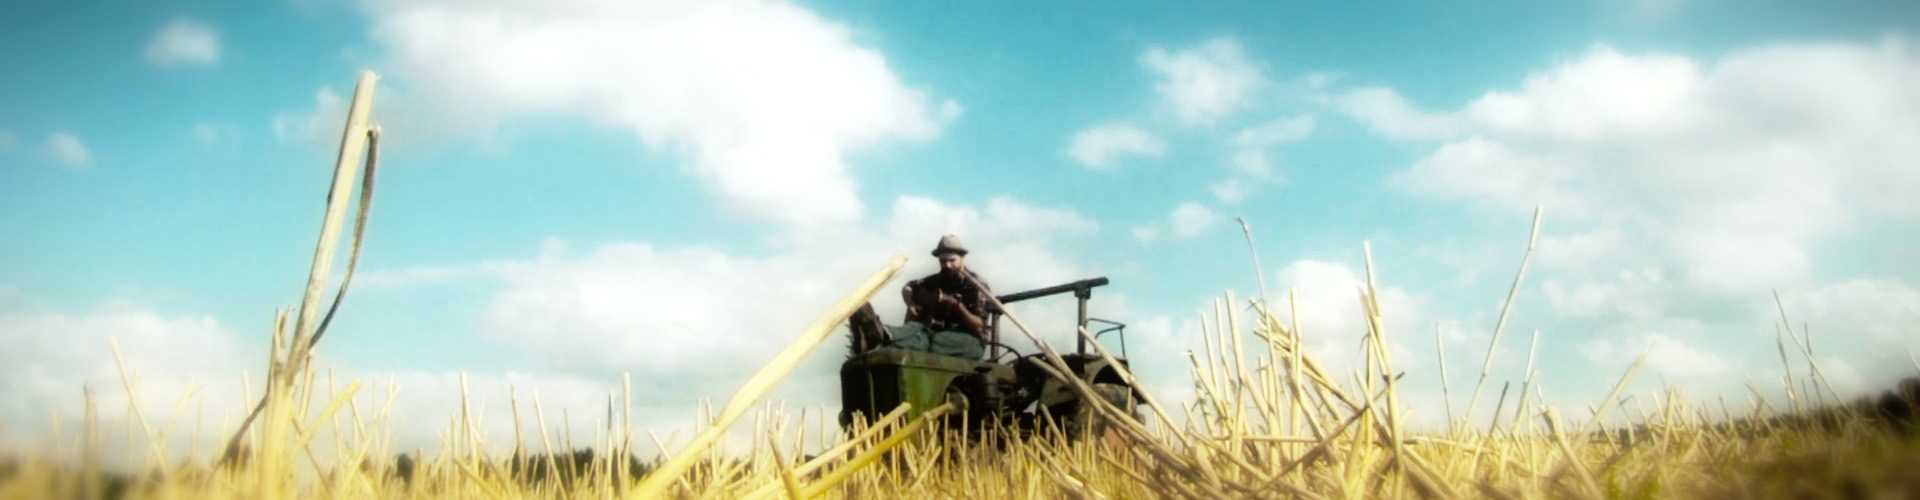
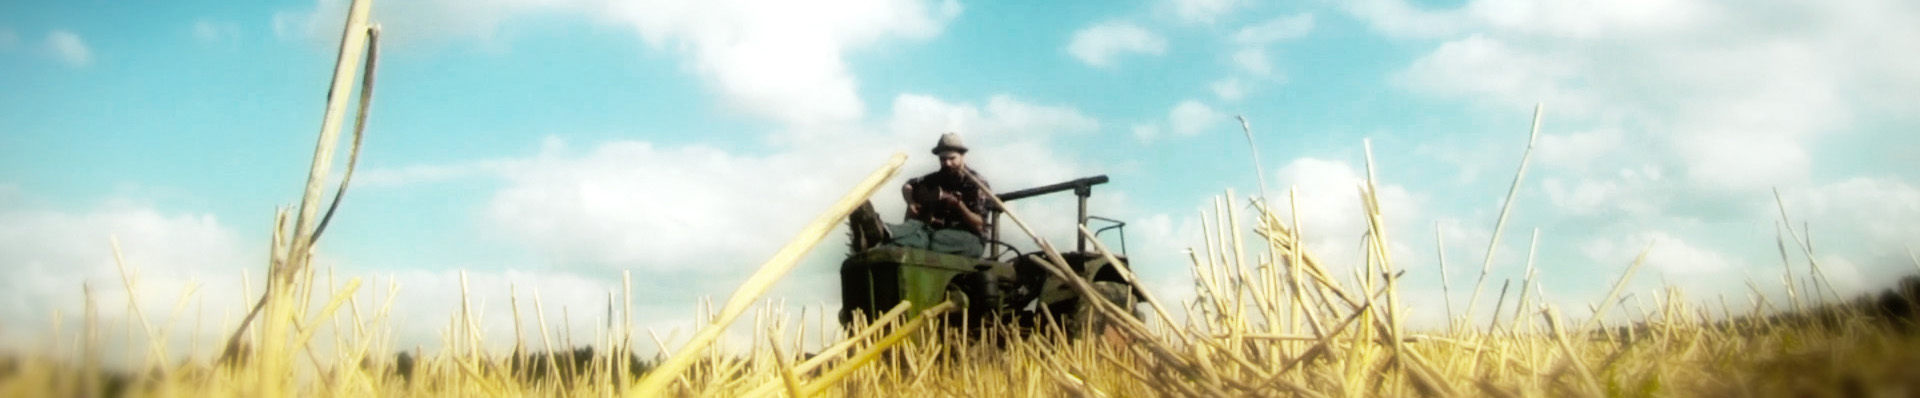
Final stylings on antonsreise project page

diff --git a/socialee/templates/jumpage.html b/socialee/templates/jumpage.html
@@ -68,130 +68,59 @@
       </div>
     </div>
 
-    <div class="w-section w-clearfix _wf-header-img-wrapper" id="first-section" data-ix="fade-in-from-right"><img class="aufklappen" src="{% static "webflow/images/arrowdown.png" %}" data-ix="nav-open">
-      <div class="w-container _wf-titlediv">
-        <div class="w-row _wf-titlerow">
-          <div class="w-col w-col-6 w-col-stack _wf-projecttitle">
-            <h1 data-ix="fade-down">Antons Reise</h1>
-            <p class="_wf-untertitel" data-ix="fade-in-slowly">Ein Roadtrip von Westfalen nach Berlin</p>
-          </div>
-          <div class="w-col w-col-6 w-col-stack">
-            <ul class="w-list-unstyled w-hidden-tiny _wf-header-list">
-              <li class="_wf-label-header" data-ix="fade-in-from-right">Datum:</li>
-              <li class="_wf-label-header _wf-var" data-ix="fade-in-slowly">{% now "SHORT_DATE_FORMAT" %}</li>
-              <li class="_wf-label-header" data-ix="fade-in-from-right">letztes großes Erlebnis:</li>
-              <li class="_wf-label-header _wf-var" data-ix="fade-in-slowly">Bauer Jakob getroffen</li>
-              <li class="_wf-label-header" data-ix="fade-in-from-right">Wetter heute:</li>
-              <li class="_wf-label-header _wf-var" data-ix="fade-in-slowly">Regen und Sturm, ächz.</li>
-              <li class="_wf-label-header" data-ix="fade-in-from-right">gefahrene Kilometer:</li>
-              <li class="_wf-label-header _wf-var" data-ix="fade-in-slowly">124 km</li>
-              <li class="_wf-label-header" data-ix="fade-in-from-right">Wo sind wir gerade:</li>
-              <li class="_wf-label-header _wf-var" data-ix="fade-in-slowly">Ratsiek im Weserbergland</li>
-              <li class="_wf-label-header" data-ix="fade-in-from-right">Dieselverbrauch:</li>
-              <li class="_wf-label-header _wf-var" data-ix="fade-in-slowly">68 Liter</li>
-            </ul>
+    <div class="w-section w-clearfix _wf-header-img-wrapper" data-ix="fade-in-from-right"><img class="aufklappen" src="{% static "webflow/images/arrowdown.png" %}" data-ix="nav-open">
+        <div class="w-nav _wf-nav-bar" data-collapse="small" data-animation="default" data-duration="400" data-contain="1" data-ix="fade-in-slowly">
+          <div class="w-hidden-small w-hidden-tiny _wf-nav-bar-container w-container">
+            <nav class="w-nav-menu _wf-nav-menu socialee-nav-menu" role="navigation"><a class="w-nav-link _wf-nav-menu-link" href="#first-section">Geschichten</a><a class="w-nav-link _wf-nav-menu-link" href="#second-section">Video</a><a class="w-nav-link _wf-nav-menu-link" href="#third-section">Reiseroute</a><!--<a class="w-nav-link _wf-nav-menu-link" href="#">Musik</a>--><a class="w-nav-link _wf-nav-menu-link" href="#fourth-section">Kontakt</a>
+            </nav><hr/>
+            <div class="w-nav-button">
+              <div class="w-icon-nav-menu"></div>
+            </div>
           </div>
         </div>
-      </div>
     </div>
 
-    <div class="w-nav _wf-nav-bar" data-collapse="small" data-animation="default" data-duration="400" data-contain="1" data-ix="fade-in-slowly">
-      <div class="w-hidden-small w-hidden-tiny _wf-nav-bar-container w-container">
-        <nav class="w-nav-menu _wf-nav-menu socialee-nav-menu left" role="navigation"><a class="w-nav-link _wf-nav-menu-link" href="#first-section">Übersicht</a><a class="w-nav-link _wf-nav-menu-link" href="#second-section">Karte</a><a class="w-nav-link _wf-nav-menu-link" href="#third-section">Logbuch</a><a class="w-nav-link _wf-nav-menu-link" href="#fourth-section">Video</a><a class="w-nav-link _wf-nav-menu-link" href="#">Musik</a><a class="w-nav-link _wf-nav-menu-link" href="#">Geschichten</a><a class="w-nav-link _wf-nav-menu-link" href="#">Bilder</a><a class="w-nav-link _wf-nav-menu-link" href="#">Kontakt</a>
-        </nav>
-        <div class="w-nav-button">
-          <div class="w-icon-nav-menu"></div>
-        </div>
-      </div>
-    </div>
-
-    <!--<div class="container-map">
-        <div id="map-canvas" class="map"></div>
-    </div>-->
-    <!--<iframe src="https://www.google.com/maps/d/embed?mid=zBlpnfY3nAzk.kdUvwyOUTp6U" width="100%" height="480"></iframe>-->
-    <div class="w-container">
-        <h2>Geschichten vom Wegesrand</h2><p>Wenn Du auf eines der Bilder klickst, kommst Du zu unserer Facebookseite. Danke Jumpage!</p>
-        <!--jumpage content-->
-        <div class="row">
-            {% for post in jumpage.page.posts %}
-            {% if post.link %}
-            <a class="inline-column text-center" href="{{ post.link }}" target="_blank">
-            {# <p class="inline-column text-center"> #}
-                {% if post.full_picture %}
-                <img src="{{ post.full_picture}}" class="img-responsive" />
-                {% endif %}
-                {% if post.message %}
-                <p class="lead pdg">{{ post.message }}</p>
-                {% endif %}
-            </a>
+    <h2 id="first-section"><br/>Geschichten vom Wegesrand</h2><br/>
+    <div class="row">
+        {% for post in jumpage.page.posts %}
+        {% if post.link %}
+        <a class="inline-column text-center" href="{{ post.link }}" target="_blank">
+        {# <p class="inline-column text-center"> #}
+            {% if post.full_picture %}
+            <img src="{{ post.full_picture}}" class="img-responsive" />
             {% endif %}
-            {% endfor %}
-        </div><hr/>
-        <h2>Das Video des Tages</h2><p>Wir bemühen uns, euch mit dem latest most fresh hot shit zu versorgen. Aber manchmal wollen wir unsere Ruhe haben!</p>
-        <div class="fb-video"
-                     data-href="https://www.facebook.com/{{ jumpage.page.id }}/videos/{{ jumpage.page.featured_video.id }}/"
-                     data-allowfullscreen="true" data-width="100%"></div>
-        <!--end jumpage content-->
+            {% if post.message %}
+            <p class="lead pdg">{{ post.message }}</p>
+            {% endif %}
+        </a>
+        {% endif %}
+        {% endfor %}
+    </div><hr/>
+
+    <h2 id="second-section"><br/>unser letztes Video</h2>
+            <div class="fb-video" style="padding:50px;" data-href="https://www.facebook.com/{{ jumpage.page.id }}/videos/{{ jumpage.page.featured_video.id }}/" data-allowfullscreen="true" data-width="100%" id="second_section"></div>
+    <hr/>
+
+    <h2 id="third-section"><br/>die Reiseroute nach Berlin</h2>
+    <div class="">
+        <iframe class="" src="https://www.google.com/maps/d/embed?mid=zKdwtyrAMUjA.kxgslM944KgQ" frameborder="0" width="100%" height="980px"></iframe>
+        <!--<div id="map-canvas" class="map"></div>-->
+    </div><hr/>
+
+    <div style="height:100vh;" id="fourth-section">
+        <div style="position: relative; top:50%;">
+            <h2 style="text-align: center;"><br/>Kontakt</h2>
+            <p style="text-align: center;">Die Treckerpiloten sind:<br/>Neil Masur &amp; Moritz Jüdes<br/>Schreibt uns an:<br/><br/><a href="mailto:antonsreise@socialee.de?Subject=Hallo%20liebe%20Treckerpiloten!"> antonsreise@socialee.de</p>
+        </div>
     </div>
-
-
 
 </div>
-    <!--<section class="pdg white">
 
-        <div class="container-fluid">
-            <h1>{{ jumpage.page.name }}</h1>
-            <p>{{ jumpage.page_description }}</p>
-            <br>
-        </div>
-
-        <div class="container-fluid">
-            {% if jumpage.page.posts %}
-            <div class="row">
-                {% for post in jumpage.page.posts %}
-                {% if post.link %}
-                <a class="inline-column text-center" href="{{ post.link }}">
-                    {% if post.full_picture %}
-                    <img src="{{ post.full_picture}}" class="img-responsive" />
-                    {% endif %}
-                    {% if post.message %}
-                    <p class="lead pdg">{{ post.message }}</p>
-                    {% endif %}
-                </a>
-                {% endif %}
-                {% endfor %}
-            </div>
-            {% endif %}
-        </div>
-
-        <div class="container-fluid text-center">
-            <a class="h3 pdg" href="{{ jumpage.page.link }}">Folge Anton auf Facebook</a>
-        </div>
-
-    </section>-->
-
-    <!--{% if jumpage.page.featured_video %}
-        <div class="container-video">
-            {#<img class="video-placeholder" src="{{ page.featured_video.picture }}" />#}
-            <div class="fb-video"
-                 data-href="https://www.facebook.com/{{ jumpage.page.id }}/videos/{{ jumpage.page.featured_video.id }}/"
-                 data-allowfullscreen="true" data-width="100%"></div>
-        </div><div class="hidden-xs"></div>
-    {% endif %}-->
-
-    {#<footer class="pdg">#}
-        {#{% if jumpage.page.impressum %}#}
-            {#<div class="container text-center">#}
-                {#<p>{{ jumpage.page.impressum }}</p>#}
-            {#</div>#}
-        {#{% endif %}#}
-    {#</footer>#}
-
-    <hr/>
-    <!-- no-edit -->
-    <div class="jumpage text-center"><a
+    <div class="jumpage text-center"><hr/><a
                 title="Make your Facebook page an awesome Jumpage"
-                href="https://jumpage.com">Built with love by Jumpage</a></div>
+                href="https://jumpage.com">Built with love by Jumpage</a><br/>
+                <a href="/">in Kooperation mit Socialee</a>
+    </div>
 
 {% endblock content %}
 

diff --git a/socialee/static/webflow/css/antons-reise.webflow.css b/socialee/static/webflow/css/antons-reise.webflow.css
@@ -52,7 +52,7 @@ h6 {
 }
 p {
   margin-bottom: 7px;
-  font-family: Oswald, sans-serif;
+  /*font-family: Oswald, sans-serif;*/
   color: rgba(66, 66, 66, 0.94);
 }
 a {
@@ -66,9 +66,10 @@ a:hover {
   text-decoration: none;
 }
 ._wf-header-img-wrapper {
-  height: 240px;
-  padding: 0px;
-  background-image: url('../images/NeilTrecker_fb.jpg');
+  height: 100vh;
+  padding: 0;
+  /*background-image: url('../images/NeilTrecker_fb.jpg');*/
+  background-image: url('../images/Titellogo_socialee_jumpage.jpg');
   background-position: 50% 50%;
   background-size: cover;
   background-repeat: no-repeat;
@@ -105,7 +106,7 @@ a:hover {
   margin-left: 2px;
   padding: 1px 5px;
   background-color: rgba(230, 140, 5, 0.27);
-  font-family: Oswald, sans-serif;
+  /*font-family: Oswald, sans-serif;*/
   font-size: 14px;
 }
 ._wf-label-header._wf-var {
@@ -120,7 +121,9 @@ a:hover {
   position: static;
 }
 ._wf-nav-bar {
-  background-color: #f0f0f0;
+  background-color: #fff;
+  position: relative;
+  top: 80%;
 }
 ._wf-nav-menu-link:hover {
   color: #929296;

diff --git a/socialee/static/webflow/css/webflow.css b/socialee/static/webflow/css/webflow.css
@@ -1441,7 +1441,7 @@ textarea.w-select {
 }
 .w-nav {
   position: relative;
-  background: #BBB;
+  background: #fff;
   z-index: 1000;
 }
 .w-nav:before,
@@ -1478,7 +1478,7 @@ textarea.w-select {
   color: #222222;
 }
 .w-nav-link.w--current {
-  color: #339ce1;
+  color: #f89406;
 }
 .w-nav-menu {
   position: relative;
@@ -1490,7 +1490,7 @@ textarea.w-select {
   top: 100%;
   left: 0;
   right: 0;
-  background: #999;
+  background: #fff;
   text-align: center;
   overflow: visible;
   min-width: 200px;

diff --git a/socialee/static/scss/jumpage.scss b/socialee/static/scss/jumpage.scss
@@ -20,6 +20,7 @@ body {
   background: #ffffff;
   /* 	word-break: break-all; */
   word-wrap: break-word;
+  padding: 0 15px;
 }
 
 a {
@@ -138,11 +139,11 @@ header, section, footer {
 }
 
 .lead {
-  font-size: 1.5em;
+  font-size: 1.25em;
 }
 
 .pdg {
-  padding: .75em;
+  padding: .5em;
 }
 
 .white {
@@ -172,6 +173,7 @@ header, section, footer {
 }
 .fb-video {
   position: relative;
+  margin: 0 auto;
 }
 
 .map {
